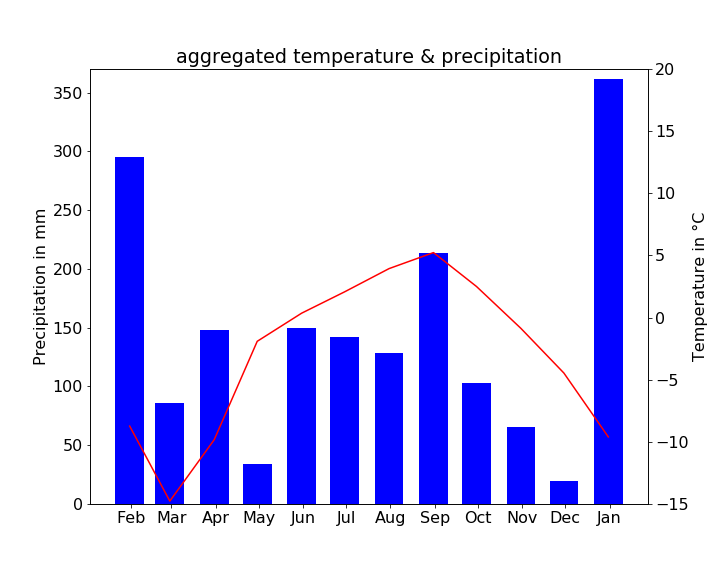
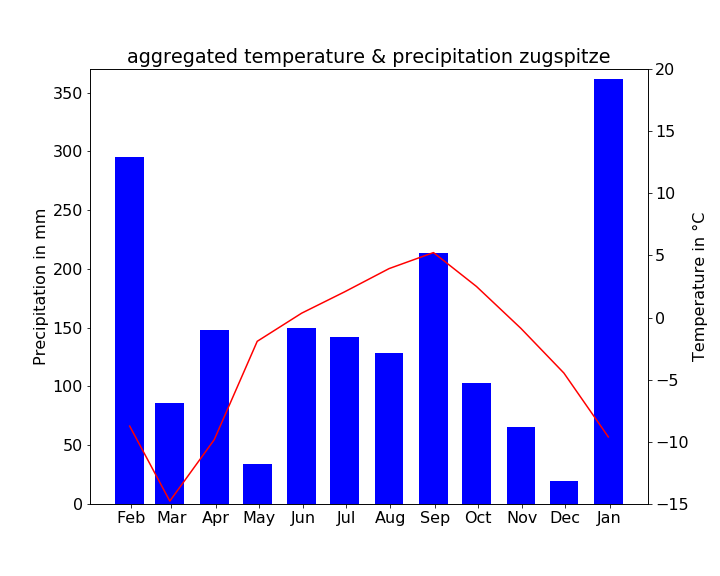
final version

Changed region(s): [[0.1833, 0.0625, 0.8556, 0.125]]

diff --git a/create_climate_diagrams.py b/create_climate_diagrams.py
@@ -110,5 +110,5 @@ create_climate_diagram(garmisch, temp_col=" TMK", prec_col=" RSK",
                        filename = output_dir / "agg_clim_garmisch_2018.png")
 
 create_climate_diagram(zugspitze,temp_col=" TMK", prec_col=" RSK",
-                       title="aggregated temperature & precipitation",
+                       title="aggregated temperature & precipitation zugspitze",
                        filename = output_dir / "agg_clim_zugspitze_2018.png" )
